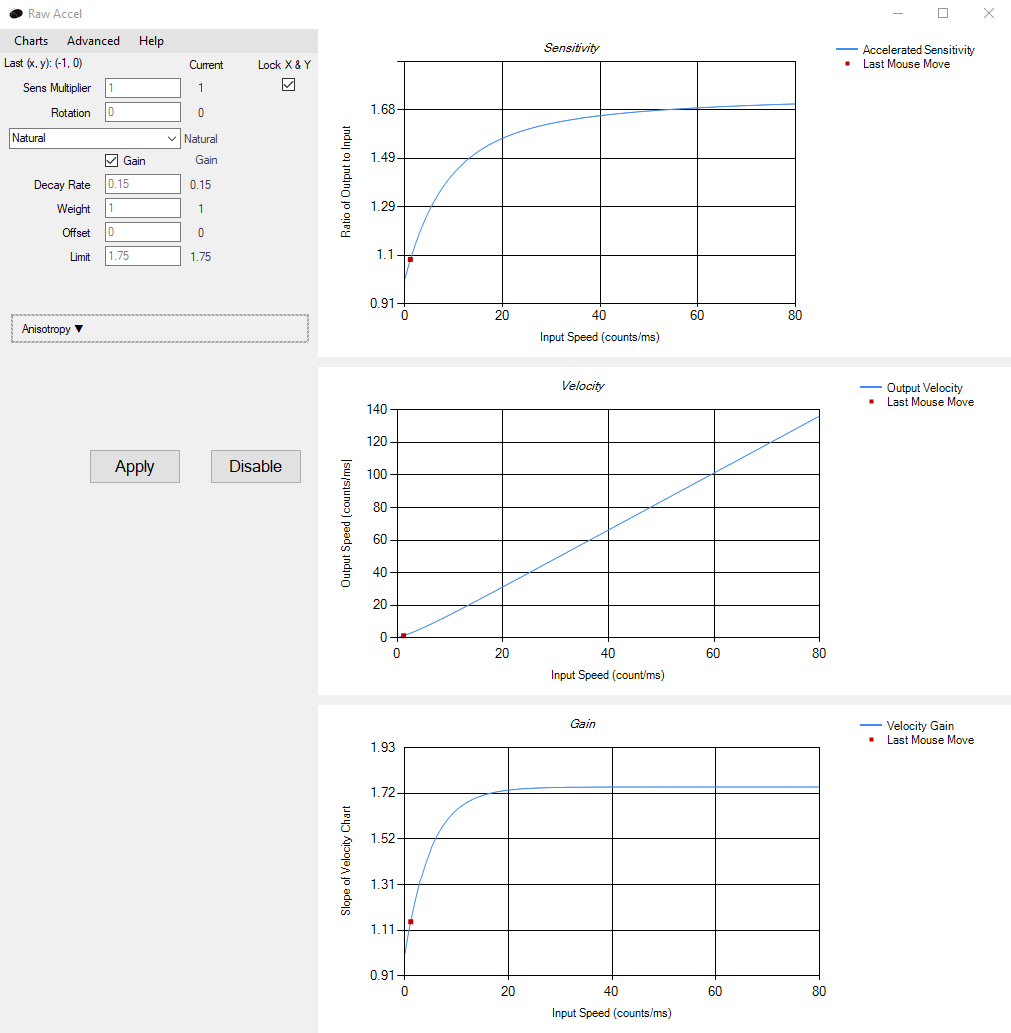
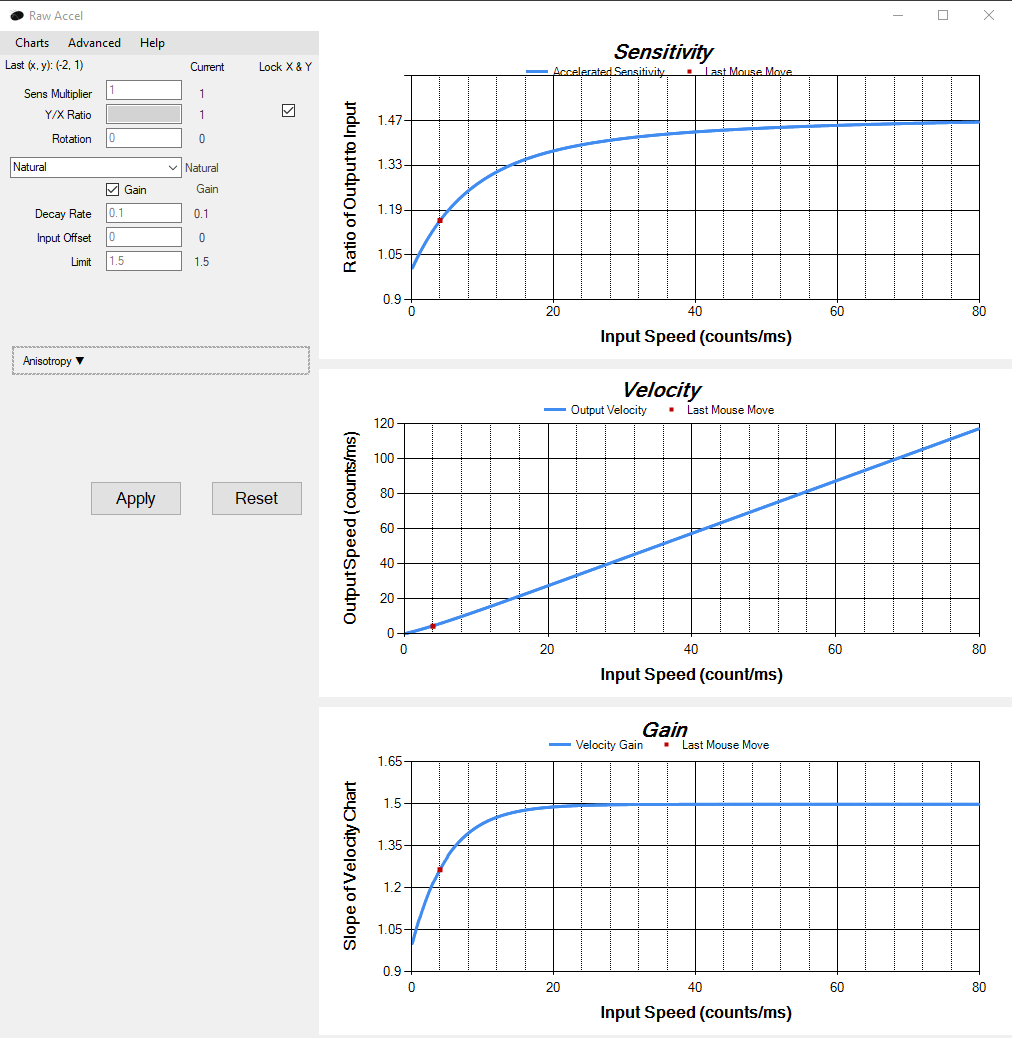
Add updated guide pics

diff --git a/doc/Guide.md b/doc/Guide.md
@@ -83,11 +83,16 @@ The authors of this program feel that Whole is the best style for most users, bu
   
 ## Features
 
+### Sensitivity Multiplier
+As described above, the "sensitivity multiplier" parameter is a multiplier used on the post-calculation output vector. The "Y/X Ratio" parameter is then only applied to the Y component of the output, so that it defines the ratio of vertical to horizontal output sensitivity without acceleration.
+
 ### Gain Switch
 The acceleration curve styles below (see "Acceleration Styles") each describe a certain shape mathematically. The gain switch determines whether that shape is applied in the sensitivity graph or the gain graph. For styles Linear, Classic, and Power, this setting does not change the possible shapes of the velocity curve - that is, for any particular settings with the gain switch set to Sensitivity, there is a different set of settings that will replicate the exact same velocity curve (output for a given hand motion) with the switch set to Gain. For styles Natural, Jump, and Motivity, this is not true, and the gain switch allows new velocity curves for each style. 
 
 ### Offsets
 An offset, sometimes called a threshold, is a speed in counts before acceleration "kicks in". The legacy way of applying an offset is having a multiplier of 1 below and at the offset, and applying the sensitivity of (speed-offset) above. This legacy "sensitivity offset" is not available because it causes a discontinuity in gain at the point of offset, leading to non-smooth feeling at offset cross. The new "gain offset" does a little extra math to simply shift the gain graph by the offset amount without any discontinuity. This feels smoother and has almost no effect on sensitivity. The theory behind "gain offsets" is developed in [this document](https://docs.google.com/document/d/1P6LygpeEazyHfjVmaEygCsyBjwwW2A-eMBl81ZfxXZk).
+
+Offsets are only applicable to the Classic, Linear, and Natural modes, where they are defined in terms of an input speed. Power mode has a special "output offset", where the curve "starts from" some ratio of the sens multiplier, described in its section.
 
 ### Caps
 A cap is a point after which acceleration is not applied. The legacy way of applying an offset is simply applying the minimum of the cap sensitivity and the calculated sensitivity for any acceleration calculation. Thus, for the legacy "sensitivity cap" the value given is a sensitivity. This cap style is still available but causes a large discontinuity at the point of offset, leading to a non-smooth feeling at cap cross. The new default "gain cap" effectively caps the gain, but for internal calculation reasons, does so for a given speed rather than a given gain value. This feels much smoother but might have a large effect on sensitivity as gain generally raises faster than sensitivity. We recommend that users use a gain cap and simply adjust it to hit at the gain equivalent to the sensitivity they'd like to cap at. The theory behind "gain caps" is developed in [this document](https://docs.google.com/document/d/1FCpkqRxUaCP7J258SupbxNxvdPfljb16AKMs56yDucA).
